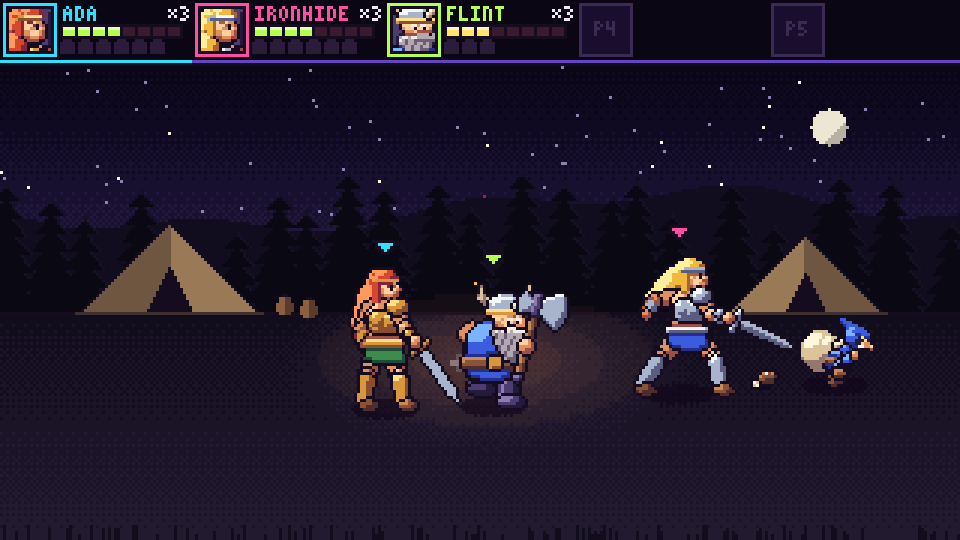
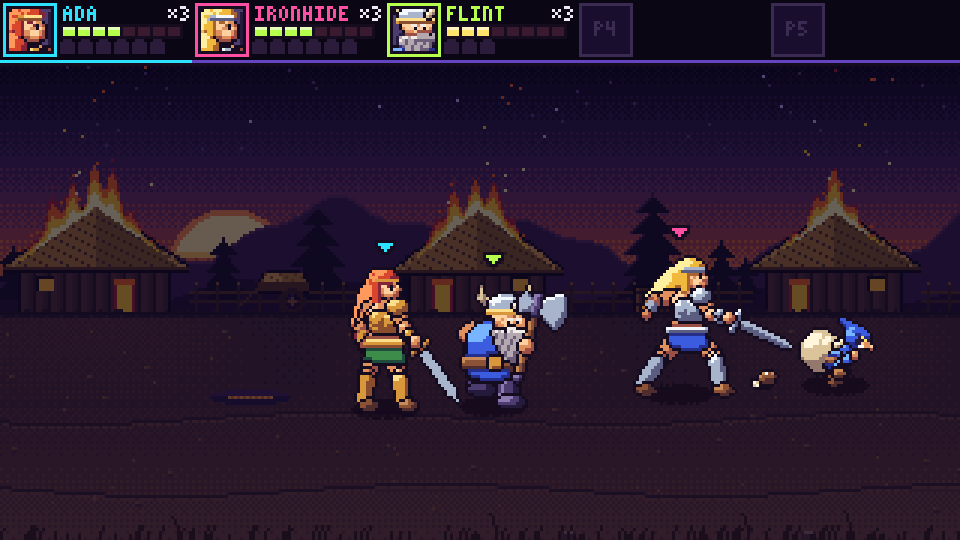
Fuse Axe camp: Stage 1's first screen at night stands in for camp's art
The night clearing round the campfire moves to a follow-up to keep this change
reviewable; until it lands, camp draws Stage 1's first screen under a dark wash.

diff --git a/games/fuse-axe/src/render/scene.ts b/games/fuse-axe/src/render/scene.ts
@@ -24,7 +24,6 @@ import { POT } from "./art/pot.js";
 import { RAVAGER, RAVAGER_TIERS } from "./art/ravager.js";
 import {
   createBackdrop,
-  createCampBackdrop,
   hasBackdrop,
   type Backdrop,
   type StageNumber,
@@ -46,8 +45,8 @@ import type { MakeSurface } from "./surface.js";
 
 /**
  * The game's picture: one native 320 × 180 frame of the engine's view, drawn in layers — the stage's backdrop (one
- * without art of its own draws Stage 1's, scrolled across the stage's longer or shorter road: `scenery`; camp its
- * night clearing, `backdrop/camp.ts`); every
+ * without art of its own draws Stage 1's, scrolled across the stage's longer or shorter road: `scenery`; camp, until
+ * it has its own, Stage 1's first screen under the `NIGHT`); every
  * figure's shadow on the floor; heroes, enemies and items on the floor by depth (further up the floor first, then
  * lower before higher, then by id), each flipped to its facing, an enemy flashing in hit-stop and blinking out when
  * defeated, a hero blinking while it is invulnerable and an item before it vanishes; an ogre's shockwave cracking the
@@ -102,6 +101,8 @@ export const ITEM_ART: Readonly<Record<ItemKind, Sprite>> = {
   meat: MEAT,
 };
 export const ITEM_SHADE = 3;
+/** The dark laid over camp's placeholder backdrop, Stage 1's first screen, until camp has art of its own. */
+export const NIGHT = "rgba(8, 4, 28, 0.62)";
 
 /** How a hero looks: its figure and its palette. */
 export interface HeroLook {
@@ -255,7 +256,6 @@ export function createScene<Image>(make: MakeSurface<Image>): Scene<Image> {
     2: createBackdrop(make, 2),
   } satisfies Record<StageNumber, Backdrop<Image>>;
   const backdropOf = (art: StageNumber) => backdrops[art];
-  const camp = createCampBackdrop(make);
   const baker = createSpriteBaker(make);
   const shadows = new Map<number, { image: Image; w: number; h: number }>();
   const crowns = new Map<Figure, number>();
@@ -298,11 +298,16 @@ export function createScene<Image>(make: MakeSurface<Image>): Scene<Image> {
         pen.fillStyle = UNLIT.k!;
         fill(pen, 0, 0, VIEW_W, VIEW_H);
       }
-      // Camp has its own night clearing, one screen that never scrolls.
-      const back = scenery(view.stage, camX),
-        backdrop = view.camp ? camp : backdropOf(back.art),
-        backX = view.camp ? 0 : back.camX;
-      backdrop.draw(field, backX, frame);
+      // Camp, until it has art of its own, is Stage 1's first screen at night.
+      const back = view.camp
+          ? { art: 1 as const, camX: 0 }
+          : scenery(view.stage, camX),
+        backdrop = backdropOf(back.art);
+      backdrop.draw(field, back.camX, frame);
+      if (view.camp) {
+        field.fillStyle = NIGHT;
+        fill(field, 0, 0, VIEW_W, VIEW_H);
+      }
       const at = (f: HeroView | EnemyView | ItemView) => ({
         id: f.id,
         y: Math.floor(f.y),
@@ -386,7 +391,7 @@ export function createScene<Image>(make: MakeSurface<Image>): Scene<Image> {
       }
       drawShards(field, view.enemies, camX);
       for (const fx of view.fx) drawSpark(field, fx, camX);
-      backdrop.drawFront(field, backX);
+      backdrop.drawFront(field, back.camX);
       spells.draw(field, view, frame);
       if (view.go && Math.floor(frame / GO_FLASH) % 2 === 0) {
         const sign = baker.bake(GO_SIGN);

diff --git a/games/fuse-axe/tests/scene.test.ts b/games/fuse-axe/tests/scene.test.ts
@@ -71,6 +71,7 @@ import {
   heroLooks,
   ITEM_SHADE,
   MARKER,
+  NIGHT,
   scenery,
   shadowRadius,
   SHADOW_RX,
@@ -937,30 +938,16 @@ test("every stage's backdrop is baked with the scene, so no frame stalls baking 
   assert.equal(wide(), baked, "drawing a stage baked a layer");
 });
 
-test("camp draws its own night clearing, baked with the scene, where only the fire moves", () => {
-  const { images, scene } = fakeScene();
-  const wide = () => images.filter((image) => image.w >= VIEW_W).length;
-  const baked = wide();
+test("camp draws, until it has art of its own, Stage 1's first screen at night, whatever stage it follows", () => {
   const camp = (frame: number, more: Partial<WorldView> = {}) =>
-    draw(world({ camp: true, ...more }), frame, scene).pen;
+    draw(world({ camp: true, stage: 2, camX: 90, ...more }), frame).pen;
   const layers = (pen: RecordingPen) =>
-    pen.blits.filter((b) => b.image.w >= VIEW_W).map((b) => b.image.id);
-  // Whatever stage it follows and wherever the view says the camera is, camp is one screen at rest.
-  assert.deepEqual(layers(camp(0)), layers(camp(0, { stage: 2, camX: 90 })));
-  assert.notDeepEqual(
-    layers(camp(0)),
-    layers(draw(world({}), 0, scene).pen),
-    "not Stage 1's backdrop",
-  );
+    pen.blits.filter((b) => b.image.w >= VIEW_W).map((b) => [b.image, b.sx]);
+  assert.deepEqual(layers(camp(0)), layers(draw(world({ camX: 0 })).pen));
+  const night = (pen: RecordingPen) =>
+    pen.fills.filter((f) => f.style === NIGHT && f.w === VIEW_W);
+  assert.equal(night(camp(0)).length, 1);
+  assert.equal(night(draw(world({})).pen).length, 0, "a stage is not dark");
   for (const frame of [-5, Number.NaN, 1e9])
     assert.doesNotThrow(() => camp(frame), `frame ${frame}`);
-  // The flames and their light flicker frame to frame, each fill a whole pixel's rectangle on screen.
-  const fire = (frame: number) => camp(frame).fills;
-  assert.notDeepEqual(fire(0), fire(7));
-  assert.ok(
-    fire(7).every(
-      (f) => f.x >= 0 && f.x + f.w <= VIEW_W && f.y >= 0 && f.y + f.h <= 180,
-    ),
-  );
-  assert.equal(wide(), baked, "drawing camp baked no layer");
 });

diff --git a/games/fuse-axe/src/render/backdrop/backdrop.ts b/games/fuse-axe/src/render/backdrop/backdrop.ts
@@ -1,7 +1,6 @@
 import { cameraEndPx, VIEW_W } from "../../engine/view-kit.js";
 import { pixelSurface, type MakeSurface } from "../surface.js";
 import { ASHEN_VILLAGE } from "./ashen-village.js";
-import { CAMP_ART } from "./camp.js";
 import { Raster, type Brush, type LayerArt, type StageArt } from "./kit.js";
 import { WYRMBONE_PASS } from "./wyrmbone-pass.js";
 
@@ -99,19 +98,8 @@ export function createBackdrop<S>(
 ): Backdrop<S> {
   if (!hasBackdrop(stage))
     throw new RangeError(`no backdrop for stage ${String(stage)}`);
-  return fromArt(make, STAGES[stage], cameraEndPx(stage));
-}
-
-/** Camp's backdrop between stages: one screen, whose camera never moves. */
-export const createCampBackdrop = <S>(make: MakeSurface<S>): Backdrop<S> =>
-  fromArt(make, CAMP_ART, 0);
-
-/** A backdrop of `art` baked for a camera that goes as far as `end`. */
-function fromArt<S>(
-  make: MakeSurface<S>,
-  art: StageArt,
-  end: number,
-): Backdrop<S> {
+  const art = STAGES[stage];
+  const end = cameraEndPx(stage);
   const back = art.back.map((layer) => bake(make, layer, end));
   const front = bake(make, art.front, end);
   return {

diff --git a/games/fuse-axe/docs/design.md b/games/fuse-axe/docs/design.md
@@ -161,10 +161,11 @@ the clearing past the packs. An imp that gets away takes nothing. A camp imp's s
 while an odd count is left; meat gives back `MEAT_HEAL` (15) hit points to a hero short of full health, no more than
 its whole health, and one at full leaves it lying for another. Nothing at camp fights back, so no hero is hurt there,
 and Magic casts nothing (the pots are kept for the road). Camp is over (`campOver`) once every imp has come and gone
-and nothing is left on the floor, or after `CAMP_STEPS` (20 s) at most. The backdrop is a starry night clearing with
-a tree line, two tents and the packs, and a campfire whose flames and light flicker (`src/render/backdrop/camp.ts`).
+and nothing is left on the floor, or after `CAMP_STEPS` (20 s) at most. Until camp has art of its own (a night
+clearing round a campfire, the follow-up), it draws Stage 1's first screen darkened to night (`NIGHT` in
+`src/render/scene.ts`).
 
-![Camp: Ironhide has just kicked a sack imp, which flees with its meat spilled by his feet](images/camp.png)
+![Camp on its placeholder backdrop: Ironhide has just kicked a sack imp, which flees, its meat by his feet](images/camp.png)
 
 ## Structure
 
